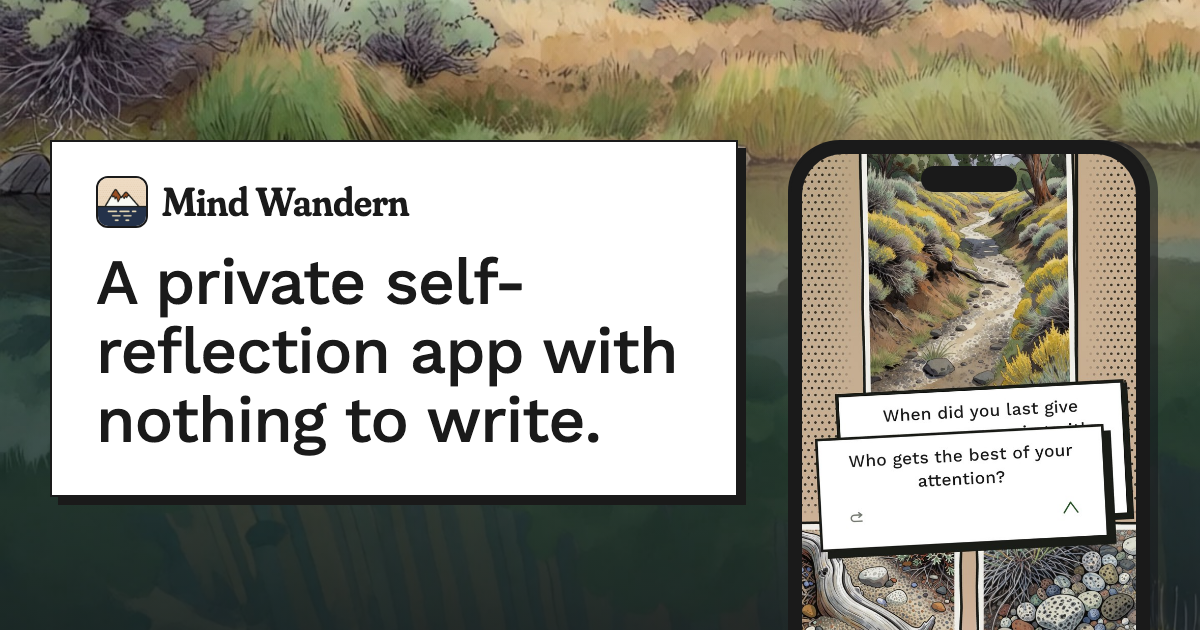
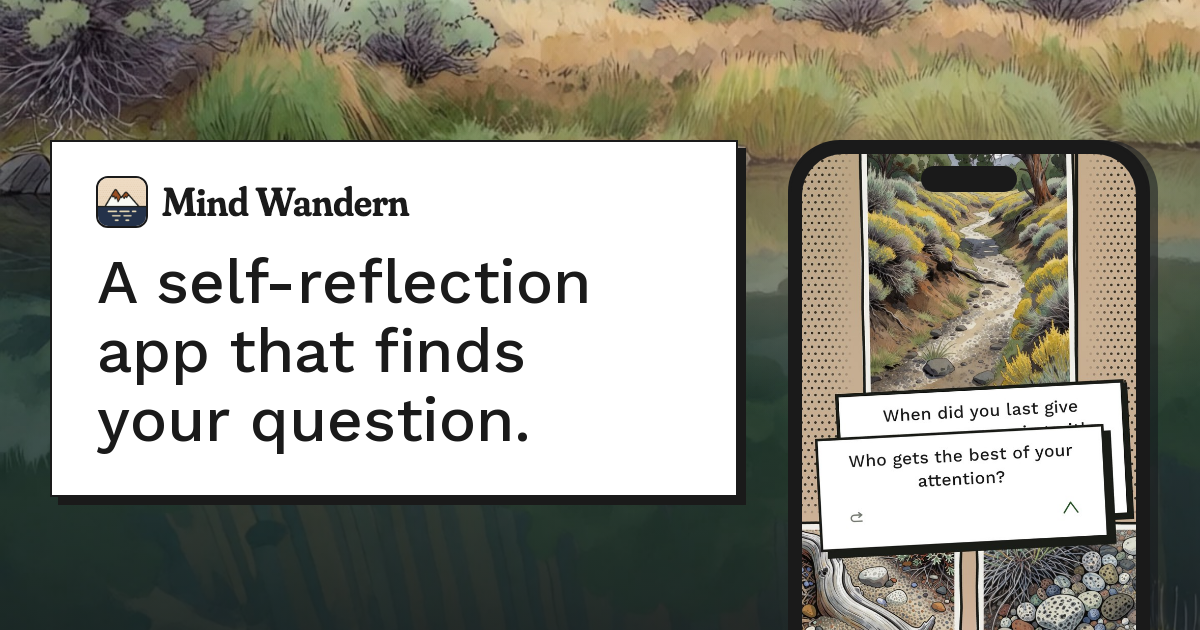
Rewrite the landing page copy around the hero promise
The H1 is now "A self-reflection app that finds the question worth asking
yourself." and each section supports it: the subhead and Journey 1 show how
the question is found, Journeys 2 and 3 and the look-back carry the climb, the
What-it-isn't items name each category's main cost, and the privacy headings
state what the reader gets. The title, description, og:title and og.png now
split the share card so its parts don't repeat each other. The FAQ picks up
the blank page, the ad promise and the new-question-per-Path point, with the
JSON-LD rebuilt.

Changed region(s): [[0.0617, 0.3921, 0.5858, 0.7238]]

diff --git a/index.html b/index.html
@@ -13,20 +13,20 @@
   <meta http-equiv="Content-Security-Policy" content="default-src 'self'; img-src 'self'; media-src 'self'; font-src 'self'; style-src 'self'; script-src 'self'; form-action https://buttondown.com; base-uri 'none'; object-src 'none'">
   <meta name="referrer" content="no-referrer">
 
-  <title>Mind Wandern: a self-reflection app with nothing to write</title>
-  <meta name="description" content="Mind Wandern is a private self-reflection app with nothing to write, no sign-up and no ad code. A few taps lead to the one question worth asking yourself.">
+  <title>Mind Wandern: a self-reflection app that finds your question</title>
+  <meta name="description" content="No need to know what to ask: pick the prompt that speaks to you more, and Mind Wandern finds the one worth asking. Private, with nothing to write.">
   <link rel="canonical" href="https://mindwandern.com/">
 
   <meta property="og:type" content="website">
   <meta property="og:url" content="https://mindwandern.com/">
   <meta property="og:site_name" content="Mind Wandern">
   <meta property="og:locale" content="en_US">
-  <meta property="og:title" content="Mind Wandern: a self-reflection app with nothing to write">
-  <meta property="og:description" content="Mind Wandern is a private self-reflection app with nothing to write, no sign-up and no ad code. A few taps lead to the one question worth asking yourself.">
+  <meta property="og:title" content="A private alternative to journaling apps">
+  <meta property="og:description" content="No need to know what to ask: pick the prompt that speaks to you more, and Mind Wandern finds the one worth asking. Private, with nothing to write.">
   <meta property="og:image" content="https://mindwandern.com/assets/img/og.png">
   <meta property="og:image:width" content="1200">
   <meta property="og:image:height" content="630">
-  <meta property="og:image:alt" content="The Mind Wandern wordmark and the words A private self-reflection app with nothing to write, beside a phone showing the question Who gets the best of your attention? over an illustrated trail">
+  <meta property="og:image:alt" content="The Mind Wandern wordmark and the words A self-reflection app that finds your question, beside a phone showing the question Who gets the best of your attention? over an illustrated trail">
   <meta name="twitter:card" content="summary_large_image">
   <!-- Post-launch only, the one install prompt: <meta name="apple-itunes-app" content="app-id=TBD"> -->
 
@@ -86,7 +86,7 @@
           "name": "How is Mind Wandern different from journaling?",
           "acceptedAnswer": {
             "@type": "Answer",
-            "text": "Journaling apps help you think by writing, but whatever you type is stored somewhere, by someone. Mind Wandern is an alternative to journaling apps, for people who want to reflect without writing. It has no text box, so you think things through in your head. If writing helps you, a paper notebook works well alongside the app. The writing stays in your drawer, not on someone’s server."
+            "text": "Journaling apps help you think by writing, but they start you on a blank page, and whatever you type is stored somewhere, by someone. Mind Wandern is an alternative to journaling apps, for people who want to reflect without writing. There is no blank page: the app finds the question, and you think it through in your head. If writing helps you, a paper notebook works well alongside the app. The writing stays in your drawer, not on someone’s server."
           }
         },
         {
@@ -94,7 +94,7 @@
           "name": "What makes Mind Wandern private?",
           "acceptedAnswer": {
             "@type": "Answer",
-            "text": "Mind Wandern has nowhere to type, so your answers never leave your head. There is no sign-up, so the app holds no name, email or password. It has no ad code, no advertising ID and no tracking across apps. An account not visited for over 90 days is deleted, with everything in it.\n\nThe privacy policy lists everything the app keeps."
+            "text": "Mind Wandern has nowhere to type, so your answers never leave your head. There is no sign-up, so the app holds no name, email or password. It has no ad code, no advertising ID and no tracking across apps, so nothing you reflect on becomes an ad. An account not visited for over 90 days is deleted, with everything in it.\n\nThe privacy policy lists everything the app keeps."
           }
         },
         {
@@ -110,7 +110,7 @@
           "name": "How is Mind Wandern different from a list of self-reflection questions?",
           "acceptedAnswer": {
             "@type": "Answer",
-            "text": "A list of self-reflection questions gives everyone the same questions, and leaves you to pick where to start. A free list and a notebook are a good way to begin, and for many people that is enough. Mind Wandern narrows things down instead. It suggests a few specific places to start, such as “The evening you planned with someone”, drawn from the topics you asked to see more of. At each fork you pick the prompt that speaks to you more, and the next question follows from it, until the Path reaches the one self-reflection question worth asking yourself."
+            "text": "A list of self-reflection questions gives everyone the same questions, and leaves you to pick where to start. A free list and a notebook are a good way to begin, and for many people that is enough. Mind Wandern narrows things down instead. It suggests a few specific places to start, such as “The evening you planned with someone”, drawn from the topics you asked to see more of. When the Path forks, you pick the prompt that speaks to you more, and the next question follows from it, until the Path reaches the one self-reflection question worth asking yourself. On the same topic, each new Path reaches a different question."
           }
         },
         {
@@ -192,12 +192,12 @@
     <div class="wrap hero__grid">
 
       <div class="hero__copy">
-        <h1>Find the self-reflection question worth asking yourself.</h1>
-        <p class="hero__sub">Mind Wandern is a private self-reflection app with nothing to write. It’s an alternative to journaling apps, and it works alongside a paper notebook.</p>
+        <h1>A self-reflection app that finds the question worth asking yourself.</h1>
+        <p class="hero__sub">You don’t need to know what to ask. Pick the prompt that speaks to you more, and the next question follows, until you reach the one worth asking. Mind Wandern is an alternative to journaling apps with nothing to write, so it stays private. Answer in your head, or on paper if you like.</p>
         <ul class="facts">
           <li>5–15 minutes, for when something feels unresolved</li>
           <li>No sign-up: no name, email or password</li>
-          <li>No ad code in the app</li>
+          <li>No ad code, so what’s on your mind never becomes an ad</li>
         </ul>
       </div>
 
@@ -229,12 +229,12 @@
   <section id="path" class="journey journey--1" data-journey aria-labelledby="journey-1-title">
     <div class="wrap">
       <div class="card journey__card">
-        <h2 id="journey-1-title">Start from work, relationships or a change in your life, then the questions get more specific.</h2>
-        <p>A Path is a series of self-reflection questions, each in its own comic panel. You think about your answer, then tap to go on.</p>
+        <h2 id="journey-1-title">Start from work, relationships or a change in your life. Your picks lead to the question.</h2>
+        <p>A Path is a series of self-reflection questions, each in its own comic panel. Think about your answer, then tap to go on.</p>
         <ol class="journey__steps">
-          <li>Pick a Path about what you want to reflect on.</li>
-          <li>When the Path forks, pick the prompt that speaks to you more.</li>
-          <li>Reach the question the Path was building to: hard to answer, and worth your time.</li>
+          <li>Pick where to start, like an evening you planned with someone.</li>
+          <li>When the way forks, pick the prompt that speaks to you more.</li>
+          <li>Reach the summit: one hard question, worth asking yourself.</li>
         </ol>
         <div class="journey__controls">
           <button class="button button--small journey__toggle" type="button" aria-pressed="false" hidden>Pause</button>
@@ -272,12 +272,12 @@
   <!-- ===== What it is not =============================================== -->
   <section class="not">
     <div class="wrap">
-      <h2>What Mind Wandern is not</h2>
+      <h2>Mind Wandern is its own kind of app.</h2>
       <dl class="not__list">
-        <div><dt>Not a journaling app.</dt><dd>There is nothing to type. If writing helps you, a paper notebook works well.</dd></div>
-        <div><dt>Not meditation.</dt><dd>It doesn’t ask you to let thoughts pass. It gives your thoughts a trail to follow.</dd></div>
-        <div><dt>Not a tracker.</dt><dd>No streaks, no scores, no notifications.</dd></div>
-        <div><dt>Not therapy.</dt><dd>No advice, no diagnosis, and no profiling.</dd></div>
+        <div><dt>Not a journaling app.</dt><dd>No blank page to fill. The question comes to you, and you answer it in your head, or on paper if you like.</dd></div>
+        <div><dt>Not meditation.</dt><dd>No need to quiet your mind. Let it wander, with a trail to follow.</dd></div>
+        <div><dt>Not a tracker.</dt><dd>No streak to keep, no mood to rate and no notifications, so there’s nothing to fall behind on.</dd></div>
+        <div><dt>Not therapy.</dt><dd>No chatbot to confide in. The app only asks questions and never hears your answers: no advice, no diagnosis, no profile.</dd></div>
       </dl>
     </div>
   </section>
@@ -305,10 +305,10 @@
                alt="The foot of the list: the Meaning topic open, with the buttons Reset and Continue">
         </figure>
         <div class="feature__text">
-          <h2>Choose what tomorrow’s Paths are about.</h2>
+          <h2>Pick the topics on your mind. Mind Wandern finds where to start.</h2>
           <div class="feature__body">
-            <p>There are eleven topics for self-reflection, from <strong>Work and money</strong> to <strong>Meaning</strong>. Place an <em>offering</em> on a topic to get more Paths about it, or a <em>ward</em> to keep them away.</p>
-            <p>Place <em>offerings</em> on two topics to get Paths about both at once:</p>
+            <p>There are eleven topics for self-reflection, from <strong>Work and money</strong> to <strong>Meaning</strong>. Place an <em>offering</em> on a topic to see more Paths about it, or a <em>ward</em> to keep them away.</p>
+            <p>Place <em>offerings</em> on two topics, and Paths start where the topics cross:</p>
             <p class="combo"><strong>People close to you</strong> + <strong>Attention and time</strong> → <em>The evening you planned with someone</em></p>
             <ul class="topics" aria-label="The eleven topics">
               <li>Work and money</li>
@@ -337,9 +337,9 @@
                alt="Two steps further back on the same walk: the question What part of your week never comes up when you call home?, then a card reading Paused here to rest, with a photo of a waterfall pouring over dark rock into a green pool">
         </figure>
         <div class="feature__text">
-          <h2>Look back at the Path that led you to the question.</h2>
+          <h2>At the summit, look back at the way you came.</h2>
           <div class="feature__body">
-            <p>At the harder question, or anywhere before it, you can see every step of the Path so far, and the prompt you picked at each fork. Some Paths leave more along the way: a place you stopped to rest, or a collected stone.</p>
+            <p>There, or anywhere on the way up, see every step so far and the prompt you picked at each fork. Some climbs hold more than questions: a place you stopped to rest, or a collected stone.</p>
           </div>
         </div>
       </article>
@@ -352,12 +352,12 @@
   <section class="journey journey--2 journey--flip" data-journey aria-labelledby="journey-2-title">
     <div class="wrap">
       <div class="card journey__card">
-        <h2 id="journey-2-title">Come back to what’s been on your mind from a new direction.</h2>
-        <p>The same thing can stay on your mind for months. Keep an <em>offering</em> on it, and each new Path still crosses different ground, so you reach the harder question from a new side.</p>
+        <h2 id="journey-2-title">When something stays unresolved, each walk takes a new way up.</h2>
+        <p>A topic can stay on your mind for months. Keep an <em>offering</em> on it, and each new Path crosses different ground and reaches a different question.</p>
         <ol class="journey__steps">
-          <li>A Path about someone close crosses a narrow pass.</li>
-          <li>Another evening, a Path on the same topic crosses different ground.</li>
-          <li>It reaches a different hard question about the same thing.</li>
+          <li>One walk about someone close crosses a narrow pass.</li>
+          <li>Another, on the same topic, crosses the far ridge.</li>
+          <li>It reaches a new summit: a different hard question.</li>
         </ol>
         <div class="journey__controls">
           <button class="button button--small journey__toggle" type="button" aria-pressed="false" hidden>Pause</button>
@@ -381,10 +381,10 @@
     <div class="wrap">
       <div class="card journey__card">
         <h2 id="journey-3-title">Carry what you find for a season. Then let it go.</h2>
-        <p>Sometimes a Path leaves you a small stone. You choose whether to carry it. You can carry only a few, so in time you let one go to make room for the next.</p>
+        <p>There are no entries to keep. Instead, a Path sometimes leaves you a stone. You can carry only a few, so each one stays with you for a while.</p>
         <ol class="journey__steps">
-          <li>A Path leaves you a stone.</li>
-          <li>Keep it with you for a while.</li>
+          <li>Carry the stone, or leave it here.</li>
+          <li>Keep it with you, beside the few others you carry.</li>
           <li>When its time with you ends, let it go into the night sky.</li>
         </ol>
         <div class="journey__controls">
@@ -407,21 +407,21 @@
   <!-- ===== Why we built privacy the hard way ============================ -->
   <section id="why" class="why tex-night">
     <div class="wrap">
-      <h2>Why we built privacy the hard way.</h2>
-      <p class="why__lead">Self-reflection gets personal quickly.</p>
+      <h2>Self-reflection gets personal quickly.</h2>
+      <p class="why__lead">So we built privacy the hard way, even where it costs us.</p>
       <div class="why__list">
         <div>
-          <p><strong>Nothing to leak, and nothing to sell.</strong> Mind Wandern holds no names, emails or passwords. So if our servers were ever hacked, there would be nothing to leak. An account not visited for over 90 days is deleted with everything in it, and data that is deleted can’t be sold later, even if someone buys the company one day.</p>
+          <p><strong>Nothing to leak, and nothing to sell.</strong> Mind Wandern holds no names, emails or passwords, so if our servers were ever hacked, nothing could tie the data to you. An account not visited for over 90 days is deleted with everything in it, and data that is deleted can’t be sold later, even if someone buys the company one day.</p>
         </div>
         <div>
-          <p><strong>Your answers are never stored.</strong> A journaling app has to keep what you write, on its own servers or in someone’s cloud. Mind Wandern has no text box, so there is nothing of yours to keep. Your answers stay with you, or in a paper notebook.</p>
+          <p><strong>Your answers are never stored, so be as honest as you like.</strong> A journaling app has to keep what you write, on its own servers or in someone’s cloud. Mind Wandern has no text box, so your answers are never stored anywhere. They stay in your head, or on paper if you like.</p>
         </div>
         <div>
-          <p><strong>No ad code in the app.</strong> Ad software inside an app can report what you do there to an ad network. Mind Wandern has none, so no ad network can watch what you do or run its code while you walk a Path.</p>
+          <p><strong>What’s on your mind never becomes an ad.</strong> Ad software inside an app can report what you do there to an ad network, which can then target ads at you. Mind Wandern has no ad code in the app, so what you reflect on here, like a breakup, money or grief, can’t follow you around as ads.</p>
           <p>We still buy ads outside the app, so people can find Mind Wandern, but those ads work less well. We can’t follow anyone from an ad into the app, or ask an ad network to find people like you. If you think this is the right choice, telling a friend helps us more than any ad we can buy.</p>
         </div>
         <div>
-          <p><strong>Usage counts are for fixing the app.</strong> The app sends a few anonymous counts, such as “a Path was finished”, and crash reports. We use them to find what’s broken, never to make you spend more time in the app. Both have their own switch in Settings › Privacy.</p>
+          <p><strong>Usage counts fix the app, never keep you in it longer.</strong> The app sends a few anonymous counts, such as “a Path was finished”, and crash reports, so we can find what’s broken. Both have their own switch in Settings › Privacy.</p>
         </div>
         <!-- Pre-launch only: remove at app launch. -->
         <div class="why__wide">
@@ -447,12 +447,12 @@
 
       <details>
         <summary>How is Mind Wandern different from journaling?</summary>
-        <p>Journaling apps help you think by writing, but whatever you type is stored somewhere, by someone. Mind Wandern is an alternative to journaling apps, for people who want to reflect without writing. It has no text box, so you think things through in your head. If writing helps you, a paper notebook works well alongside the app. The writing stays in your drawer, not on someone’s server.</p>
+        <p>Journaling apps help you think by writing, but they start you on a blank page, and whatever you type is stored somewhere, by someone. Mind Wandern is an alternative to journaling apps, for people who want to reflect without writing. There is no blank page: the app finds the question, and you think it through in your head. If writing helps you, a paper notebook works well alongside the app. The writing stays in your drawer, not on someone’s server.</p>
       </details>
 
       <details>
         <summary>What makes Mind Wandern private?</summary>
-        <p>Mind Wandern has nowhere to type, so your answers never leave your head. There is no sign-up, so the app holds no name, email or password. It has no ad code, no advertising ID and no tracking across apps. An account not visited for over 90 days is deleted, with everything in it.</p>
+        <p>Mind Wandern has nowhere to type, so your answers never leave your head. There is no sign-up, so the app holds no name, email or password. It has no ad code, no advertising ID and no tracking across apps, so nothing you reflect on becomes an ad. An account not visited for over 90 days is deleted, with everything in it.</p>
         <p>The <a href="legal/privacy/">privacy policy</a> lists everything the app keeps.</p>
       </details>
 
@@ -463,7 +463,7 @@
 
       <details>
         <summary>How is Mind Wandern different from a list of self-reflection questions?</summary>
-        <p>A list of self-reflection questions gives everyone the same questions, and leaves you to pick where to start. A free list and a notebook are a good way to begin, and for many people that is enough. Mind Wandern narrows things down instead. It suggests a few specific places to start, such as “The evening you planned with someone”, drawn from the topics you asked to see more of. At each fork you pick the prompt that speaks to you more, and the next question follows from it, until the Path reaches the one self-reflection question worth asking yourself.</p>
+        <p>A list of self-reflection questions gives everyone the same questions, and leaves you to pick where to start. A free list and a notebook are a good way to begin, and for many people that is enough. Mind Wandern narrows things down instead. It suggests a few specific places to start, such as “The evening you planned with someone”, drawn from the topics you asked to see more of. When the Path forks, you pick the prompt that speaks to you more, and the next question follows from it, until the Path reaches the one self-reflection question worth asking yourself. On the same topic, each new Path reaches a different question.</p>
       </details>
 
       <details>
